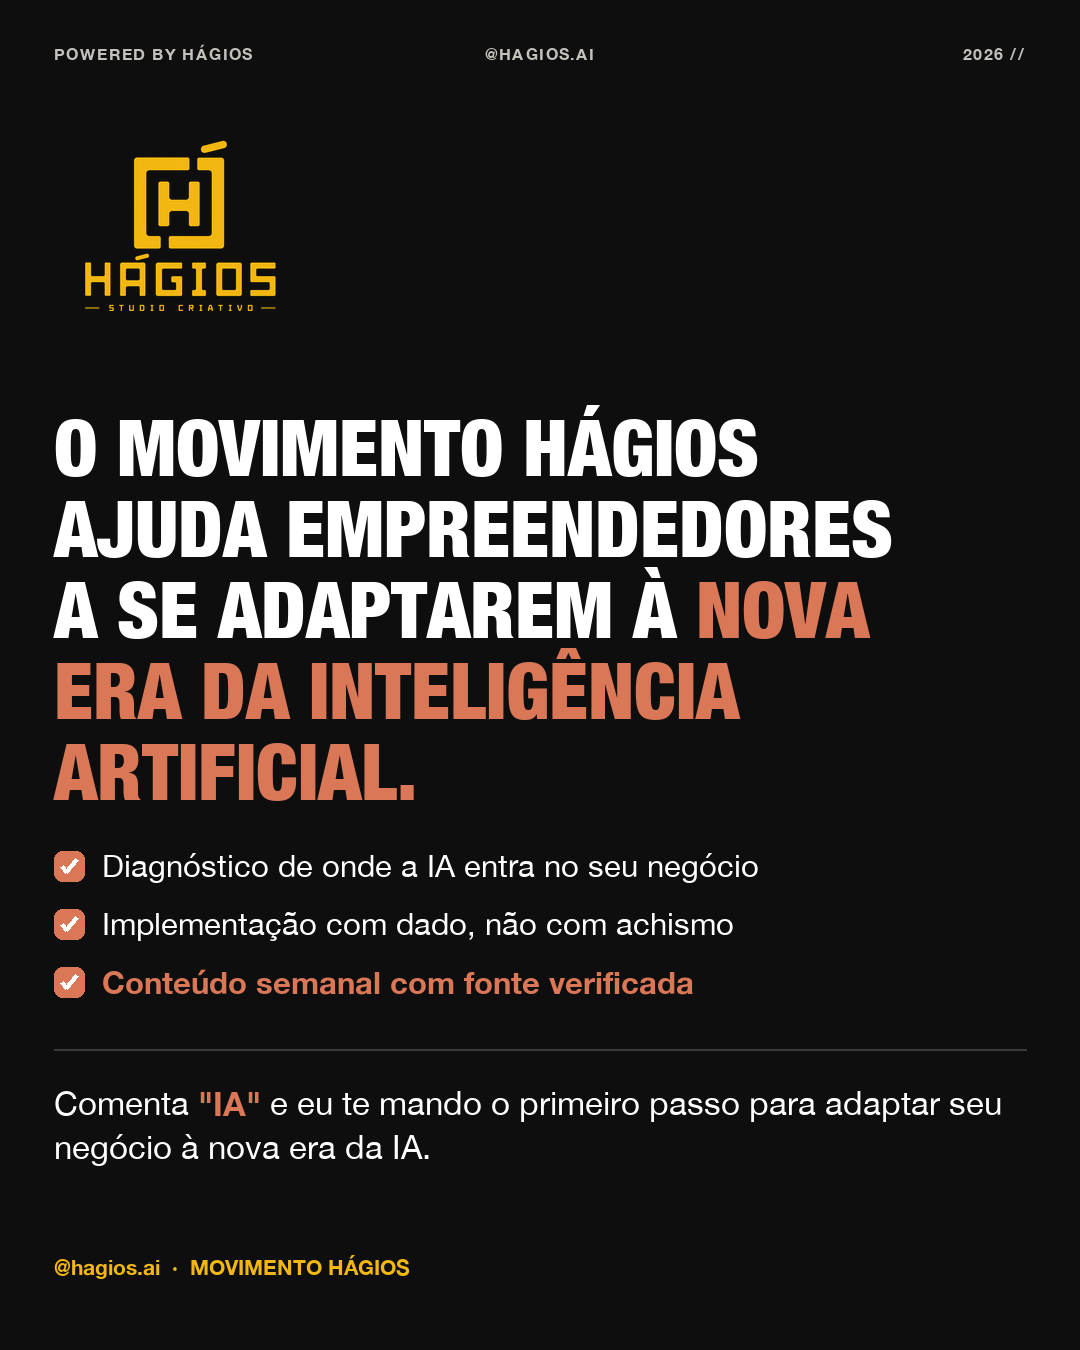
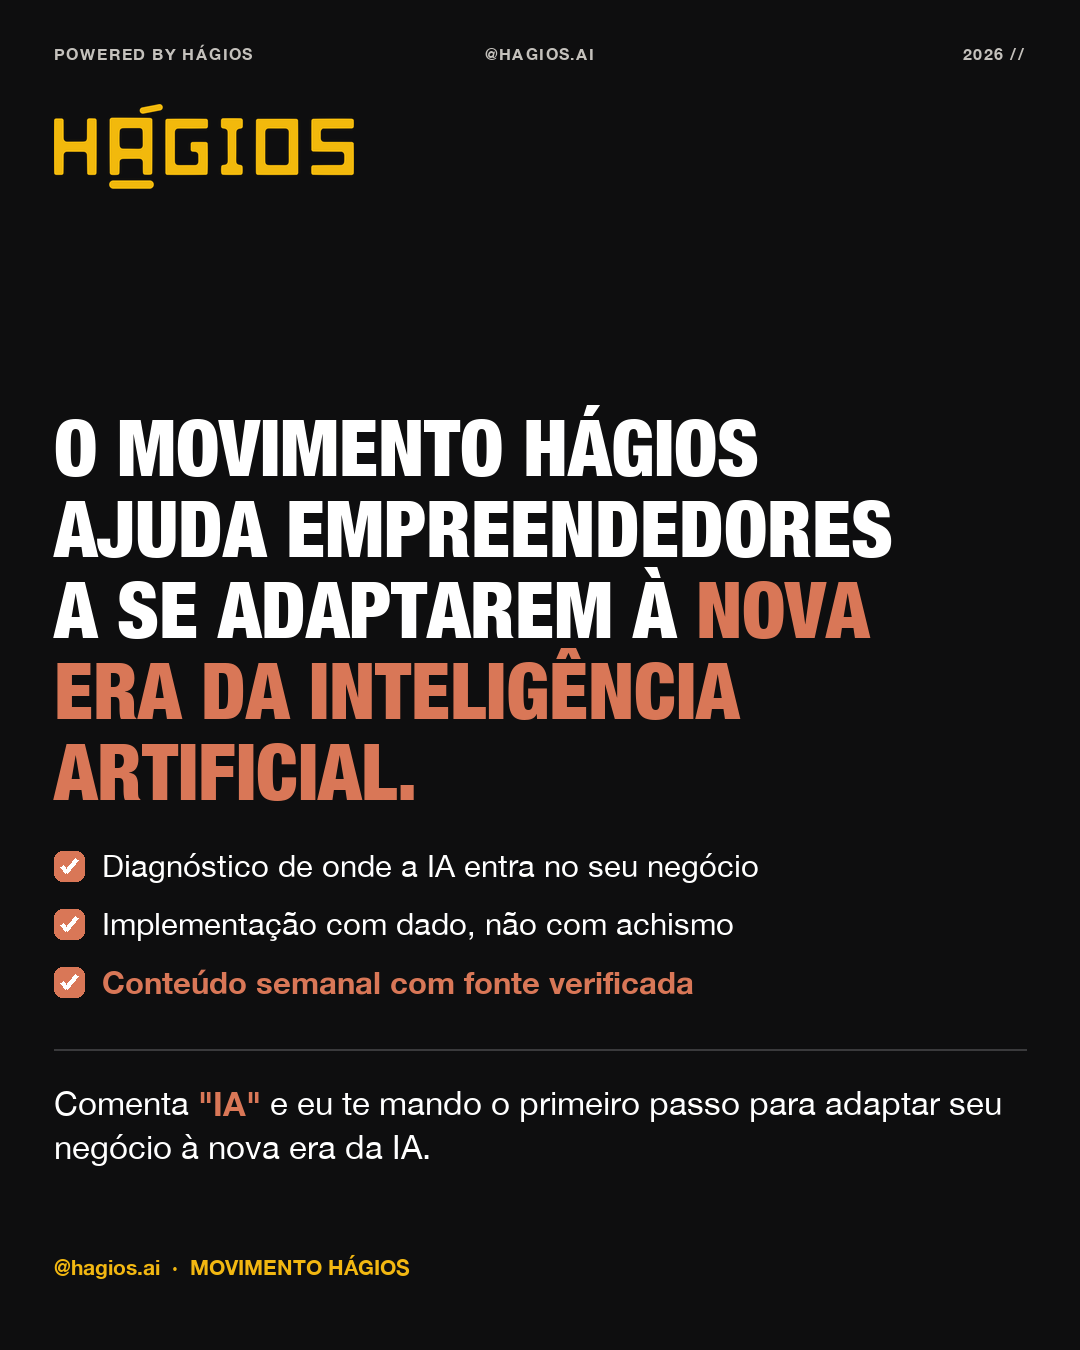
feat: wordmark HÁGIOS no login, no sistema e no card final
Os arquivos IMG_0887/0888 eram os wordmarks oficiais. Recortados e instalados
como hagios-wordmark-navy/gold. O card final deixa de exibir "STUDIO CRIATIVO",
que contradizia a assinatura "MOVIMENTO HÁGIOS" logo abaixo.

Changed region(s): [[0.0306, 0.0622, 0.3361, 0.2178]]

diff --git a/studio/app/layout.tsx b/studio/app/layout.tsx
@@ -3,19 +3,19 @@ import "./globals.css";
 
 export const metadata: Metadata = {
   metadataBase: new URL("http://localhost:3000"),
-  title: "Hagios Culture Engine",
+  title: "HÁGIOS · Culture Engine",
   description: "Estúdio editorial para pesquisar, roteirizar e criar carrosséis culturais de Instagram.",
   icons: {
-    icon: "/brand/hagios-mark-transparent.png",
+    icon: "/brand/hagios-wordmark-navy.png",
   },
   openGraph: {
-    title: "Hagios Culture Engine",
+    title: "HÁGIOS · Culture Engine",
     description: "Carrosséis que começam na cultura, não no template.",
     images: [{ url: "/og.png", width: 1200, height: 630, alt: "Hagios Culture Engine" }],
   },
   twitter: {
     card: "summary_large_image",
-    title: "Hagios Culture Engine",
+    title: "HÁGIOS · Culture Engine",
     description: "Pesquisa. Tese. Imagem.",
     images: ["/og.png"],
   },

diff --git a/studio/app/login/page.tsx b/studio/app/login/page.tsx
@@ -38,7 +38,7 @@ export default function LoginPage() {
   return (
     <main className="login-shell">
       <section className="login-brand">
-        <img src="/brand/hagios-logo-transparent.png" alt="HÁGIOS" />
+        <img src="/brand/hagios-wordmark-gold.png" alt="HÁGIOS" />
         <p>HÁGIOS / CULTURE ENGINE</p>
         <h1>Pesquise sinais.<br />Construa uma tese.<br />Publique com prova.</h1>
         <span>Carrosséis editoriais com fonte rastreável — pesquisa, roteiro, copy e arte no mesmo lugar.</span>

diff --git a/studio/components/studio-client.tsx b/studio/components/studio-client.tsx
@@ -462,7 +462,7 @@ export default function Home() {
     <main className="app-shell">
       <aside className="icon-rail" aria-label="Navegação principal">
         <button className="brand-mark" aria-label="Voltar para os projetos" title="Voltar para os projetos" onClick={goHome}>
-          <img src="/brand/hagios-mark-transparent.png" alt="" />
+          <img src="/brand/hagios-wordmark-gold.png" alt="HÁGIOS" />
         </button>
         <nav>
           <button className={`rail-button ${workspaceView === "home" ? "active" : ""}`} aria-label="Projetos" title="Projetos" onClick={goHome}><LayoutDashboard size={19} /></button>

diff --git a/kit/final_card.py b/kit/final_card.py
@@ -13,7 +13,7 @@ sys.path.insert(0, "/Users/holydev/Documents/Brand-Hagios/kit")
 
 from PIL import Image, ImageDraw
 
-from hagios_kit import (BRAND, FINAL_CARD, GOLD, GREY_DARK, H, INK, M, TERRA, W, WHITE,
+from hagios_kit import (BRAND, KIT, FINAL_CARD, GOLD, GREY_DARK, H, INK, M, TERRA, W, WHITE,
                         bold, cond, fit_seg, headline_seg, header, reg, rich, w_of)
 
 # ---------------------------------------------------------------- oferta
@@ -39,8 +39,8 @@ def build():
     header(d, True, left="POWERED BY HÁGIOS", mid="@HAGIOS.AI", right="2026 //")
 
     # logo em ouro
-    logo = Image.open(BRAND / "hagios-logo-transparent.png").convert("RGBA")
-    lw = 250
+    logo = Image.open(KIT / "hagios-wordmark-gold.png").convert("RGBA")
+    lw = 300
     logo = logo.resize((lw, int(logo.height * lw / logo.width)), Image.LANCZOS)
     c.paste(logo, (M, 104), logo)
 